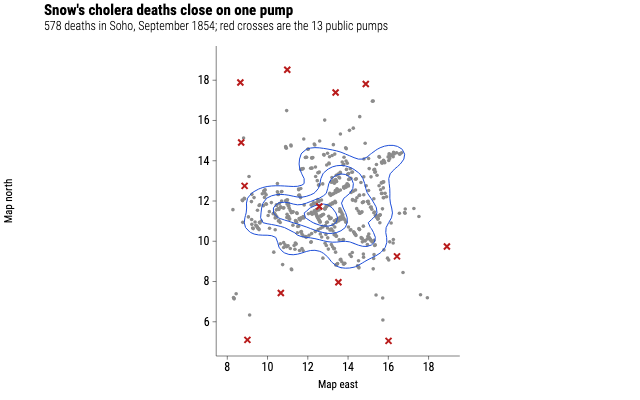
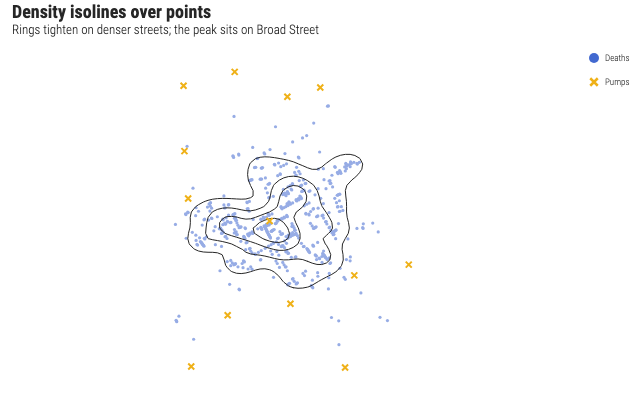
fix(examples): unslop kde-2d isolines with theme_map and palette
Rewrite the density/kde-2d gallery page so it stands alone: capability-first
title and copy (not insider Snow diction), theme_map instead of classic, empty
x/y labs, Deaths/Pumps via scaleColorDiscrete(observable10) instead of manual
hex, and a recaptured light preview. Core y-axis title placement remains tracked
as #1570.

diff --git a/examples/density/kde-2d/spec.ts b/examples/density/kde-2d/spec.ts
@@ -5,32 +5,38 @@ import { choleraDeaths, waterPumps } from "./data.js";
 
 export default defineExample(
   gg(choleraDeaths, aes({ x: "x", y: "y" }))
-    .geomPoint({ alpha: 0.45, size: 1.8 })
+    .geomPoint({
+      alpha: 0.55,
+      size: 1.6,
+      aes: aes({ color: { value: "Deaths", scale: true } }),
+    })
     .geomDensity2d({
       bins: 6,
       n: 48,
       linewidth: 1,
-      aes: aes({ color: { value: "#1d4ed8" } }),
     })
     // The pumps are the argument: without them the rings are a crowd of dots,
     // and with them the innermost ring lands on Broad Street.
     .geomPoint({
       data: waterPumps,
-      aes: aes({ x: "x", y: "y", color: { value: "#b91c1c" } }),
+      aes: aes({ x: "x", y: "y", color: { value: "Pumps", scale: true } }),
       size: 4,
       shape: "cross",
     })
-    .scales({
-      x: { breaks: [8, 10, 12, 14, 16, 18] },
-      y: { breaks: [6, 8, 10, 12, 14, 16, 18] },
+    // Domain fixed so Deaths/Pumps never flip with layer order; palette, not hex.
+    .scaleColorDiscrete({
+      domain: ["Deaths", "Pumps"],
+      scheme: "observable10",
     })
     .coordFixed()
-    .theme("classic")
+    .theme("map")
     .labs({
-      title: "Snow's cholera deaths close on one pump",
-      subtitle: "578 deaths in Soho, September 1854; red crosses are the 13 public pumps",
-      x: "Map east",
-      y: "Map north",
+      title: "Density isolines over points",
+      subtitle: "Rings tighten on denser streets; the peak sits on Broad Street",
+      // theme_map blanks tick labels; empty x/y suppress the field-name fallbacks.
+      x: "",
+      y: "",
+      color: "",
     })
     .spec(),
 );

diff --git a/examples/density/kde-2d/Example.svelte b/examples/density/kde-2d/Example.svelte
@@ -6,37 +6,35 @@
     GGPlot,
     Inspect,
     Labs,
-    ScaleXContinuous,
-    ScaleYContinuous,
-    ThemeClassic,
+    ScaleColorDiscrete,
+    ThemeMap,
   } from "@ggsvelte/svelte";
 
   import { choleraDeaths, waterPumps } from "./data.js";
 </script>
 
 <GGPlot data={choleraDeaths} aes={{ x: "x", y: "y" }} width={640} height={400}>
-  <GeomPoint alpha={0.45} size={1.8} />
-  <GeomDensity2d
-    bins={6}
-    n={48}
-    linewidth={1}
-    aes={{ color: { value: "#1d4ed8" } }}
+  <GeomPoint
+    alpha={0.55}
+    size={1.6}
+    aes={{ color: { value: "Deaths", scale: true } }}
   />
+  <GeomDensity2d bins={6} n={48} linewidth={1} />
   <GeomPoint
     data={waterPumps}
-    aes={{ x: "x", y: "y", color: { value: "#b91c1c" } }}
+    aes={{ x: "x", y: "y", color: { value: "Pumps", scale: true } }}
     size={4}
     shape="cross"
   />
+  <ScaleColorDiscrete domain={["Deaths", "Pumps"]} scheme="observable10" />
   <CoordFixed />
-  <ScaleXContinuous breaks={[8, 10, 12, 14, 16, 18]} />
-  <ScaleYContinuous breaks={[6, 8, 10, 12, 14, 16, 18]} />
-  <ThemeClassic />
+  <ThemeMap />
   <Labs
-    title="Snow's cholera deaths close on one pump"
-    subtitle="578 deaths in Soho, September 1854; red crosses are the 13 public pumps"
-    x="Map east"
-    y="Map north"
+    title="Density isolines over points"
+    subtitle="Rings tighten on denser streets; the peak sits on Broad Street"
+    x=""
+    y=""
+    color=""
   />
   <Inspect mode="xy" pin maxDistance={24} />
 </GGPlot>

diff --git a/examples/manifest.ts b/examples/manifest.ts
@@ -246,9 +246,9 @@ export const EXAMPLES: readonly ExampleManifestEntry[] = [
     id: "density/kde-2d",
     category: "density",
     name: "kde-2d",
-    title: "Snow's cholera deaths, contoured",
-    description: "A kernel density over the 578 deaths of the 1854 Soho outbreak. The isolines close around Broad Street, where Snow said the pump was.",
-    tags: ["density", "density_2d", "stat", "kde", "contour", "point", "theme"],
+    title: "2D density isolines",
+    description: "Kernel density drawn as contour lines over 578 point locations. The rings tighten where the points cluster — here, the streets around one pump on Snow's 1854 Soho map.",
+    tags: ["density", "density_2d", "stat", "kde", "contour", "point", "map"],
     docsSection: "Distributions",
     hasData: true,
   },
